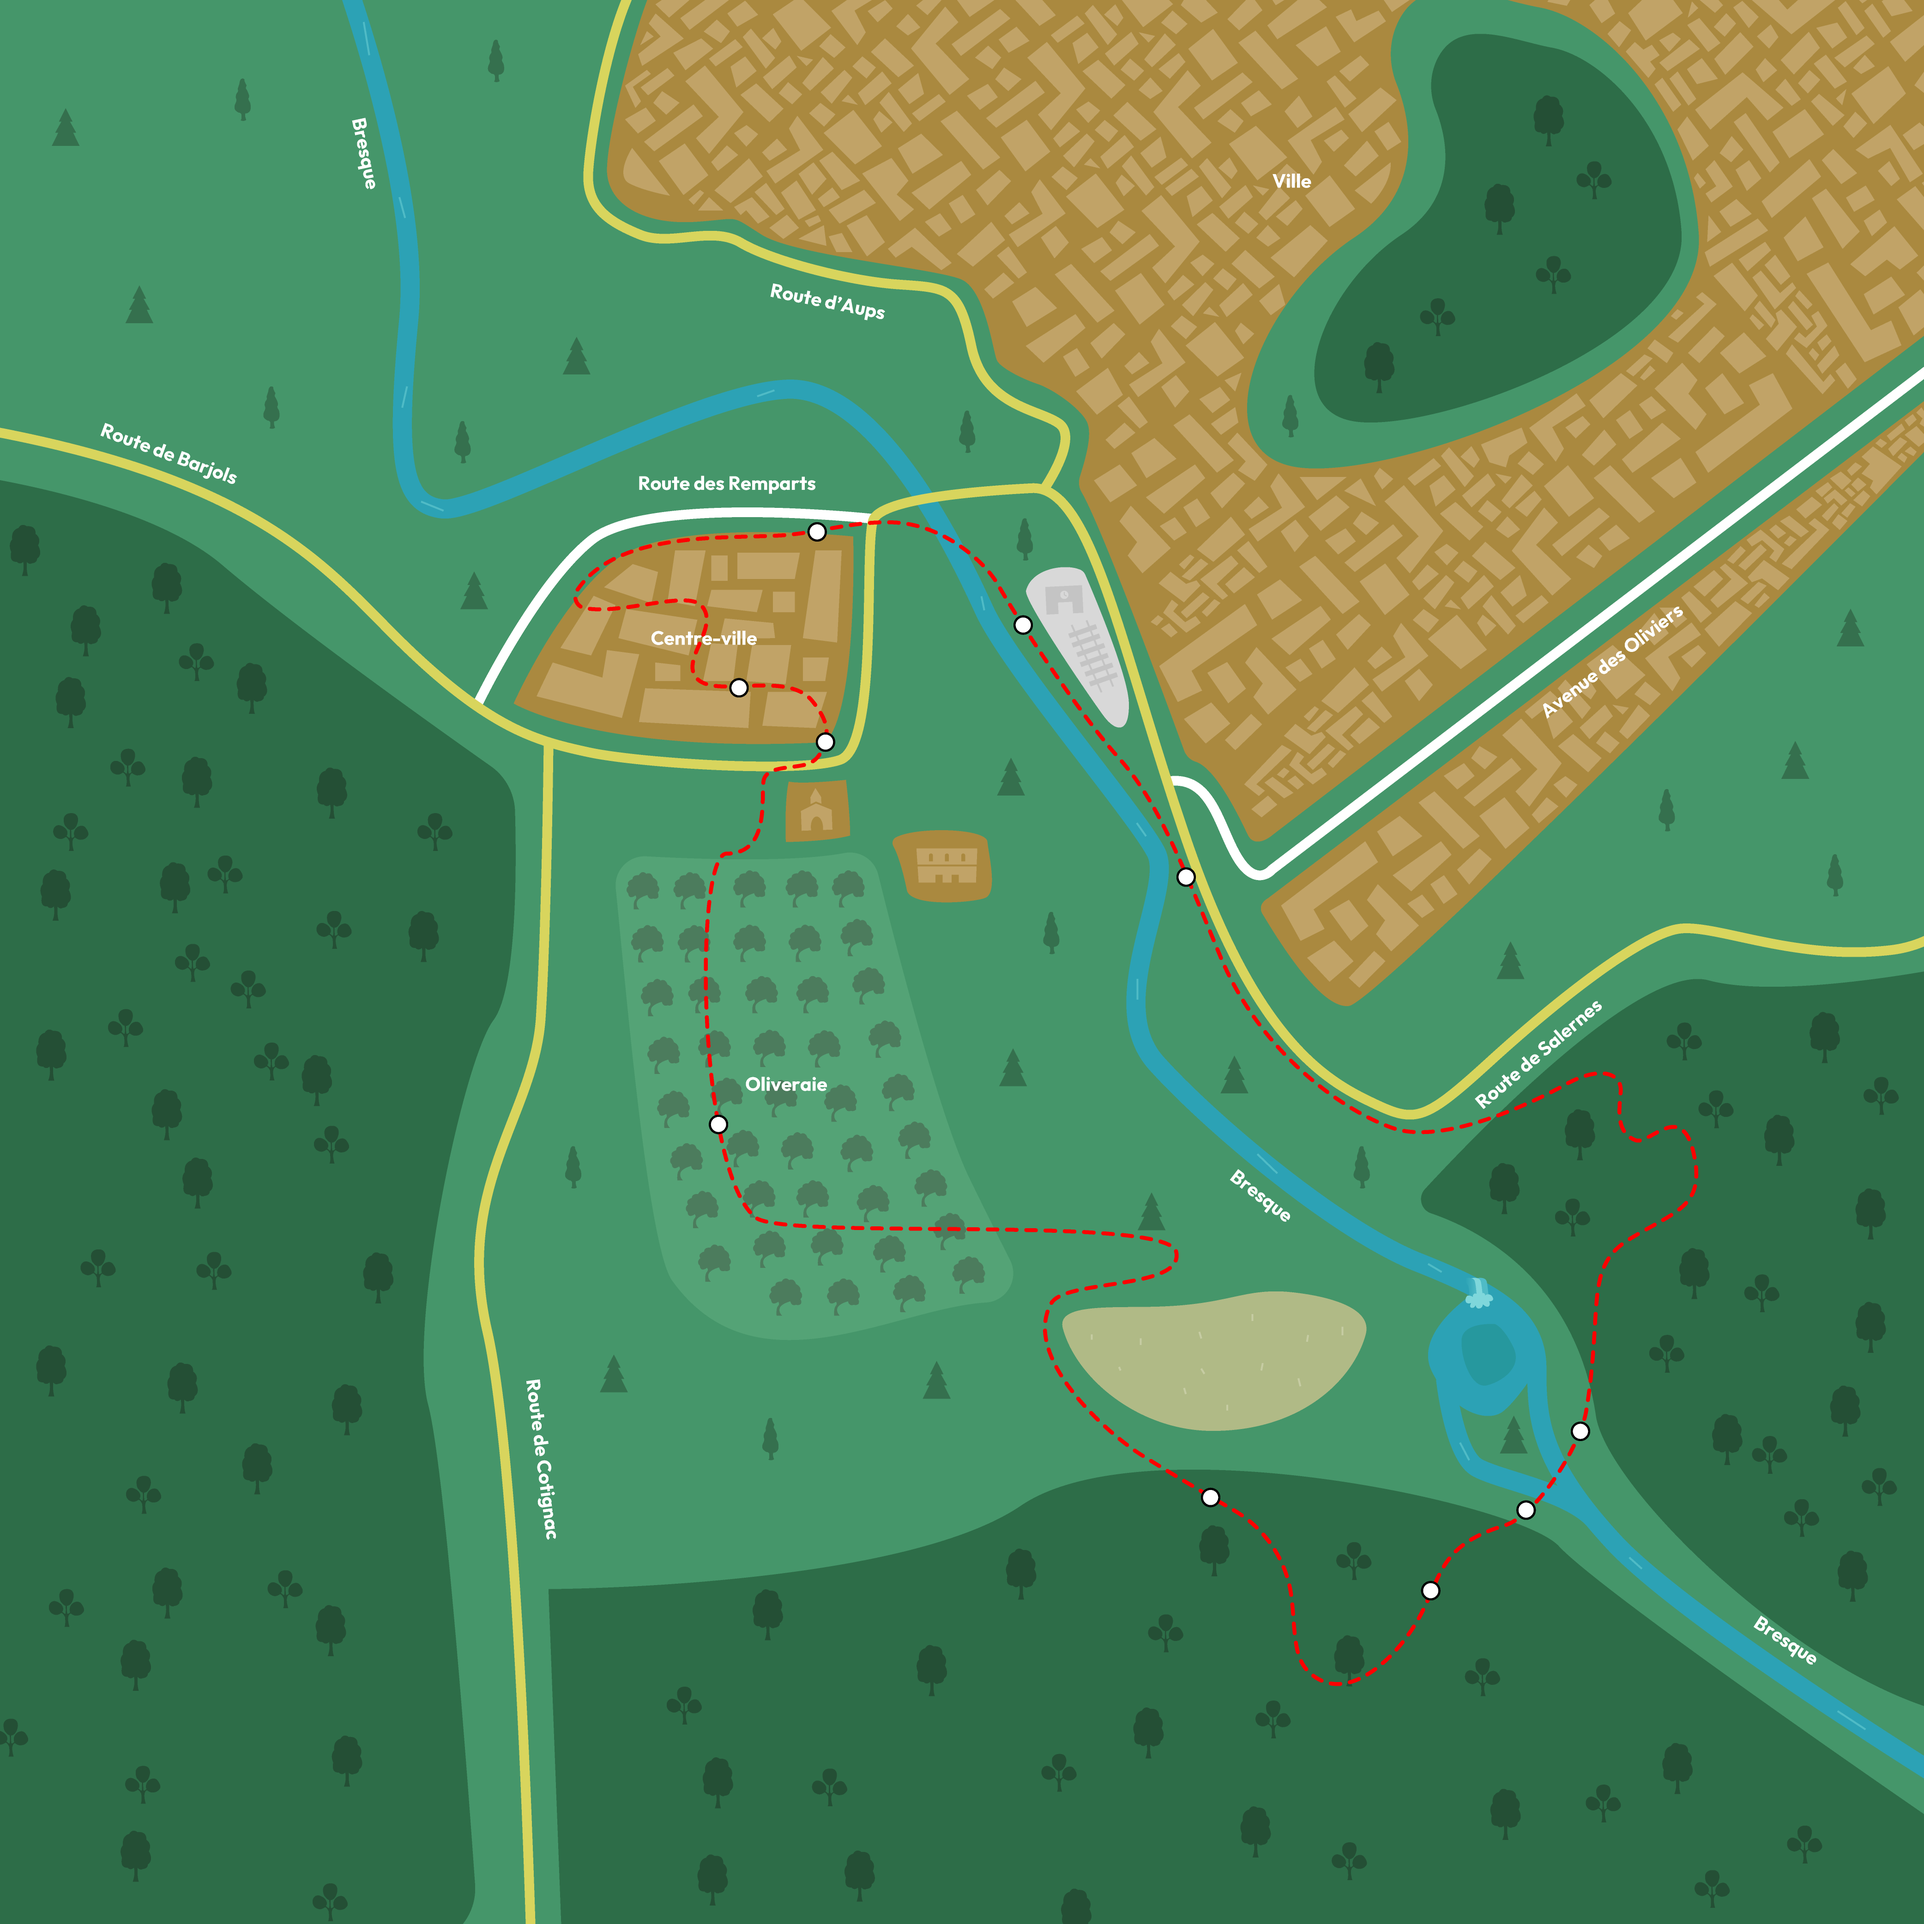
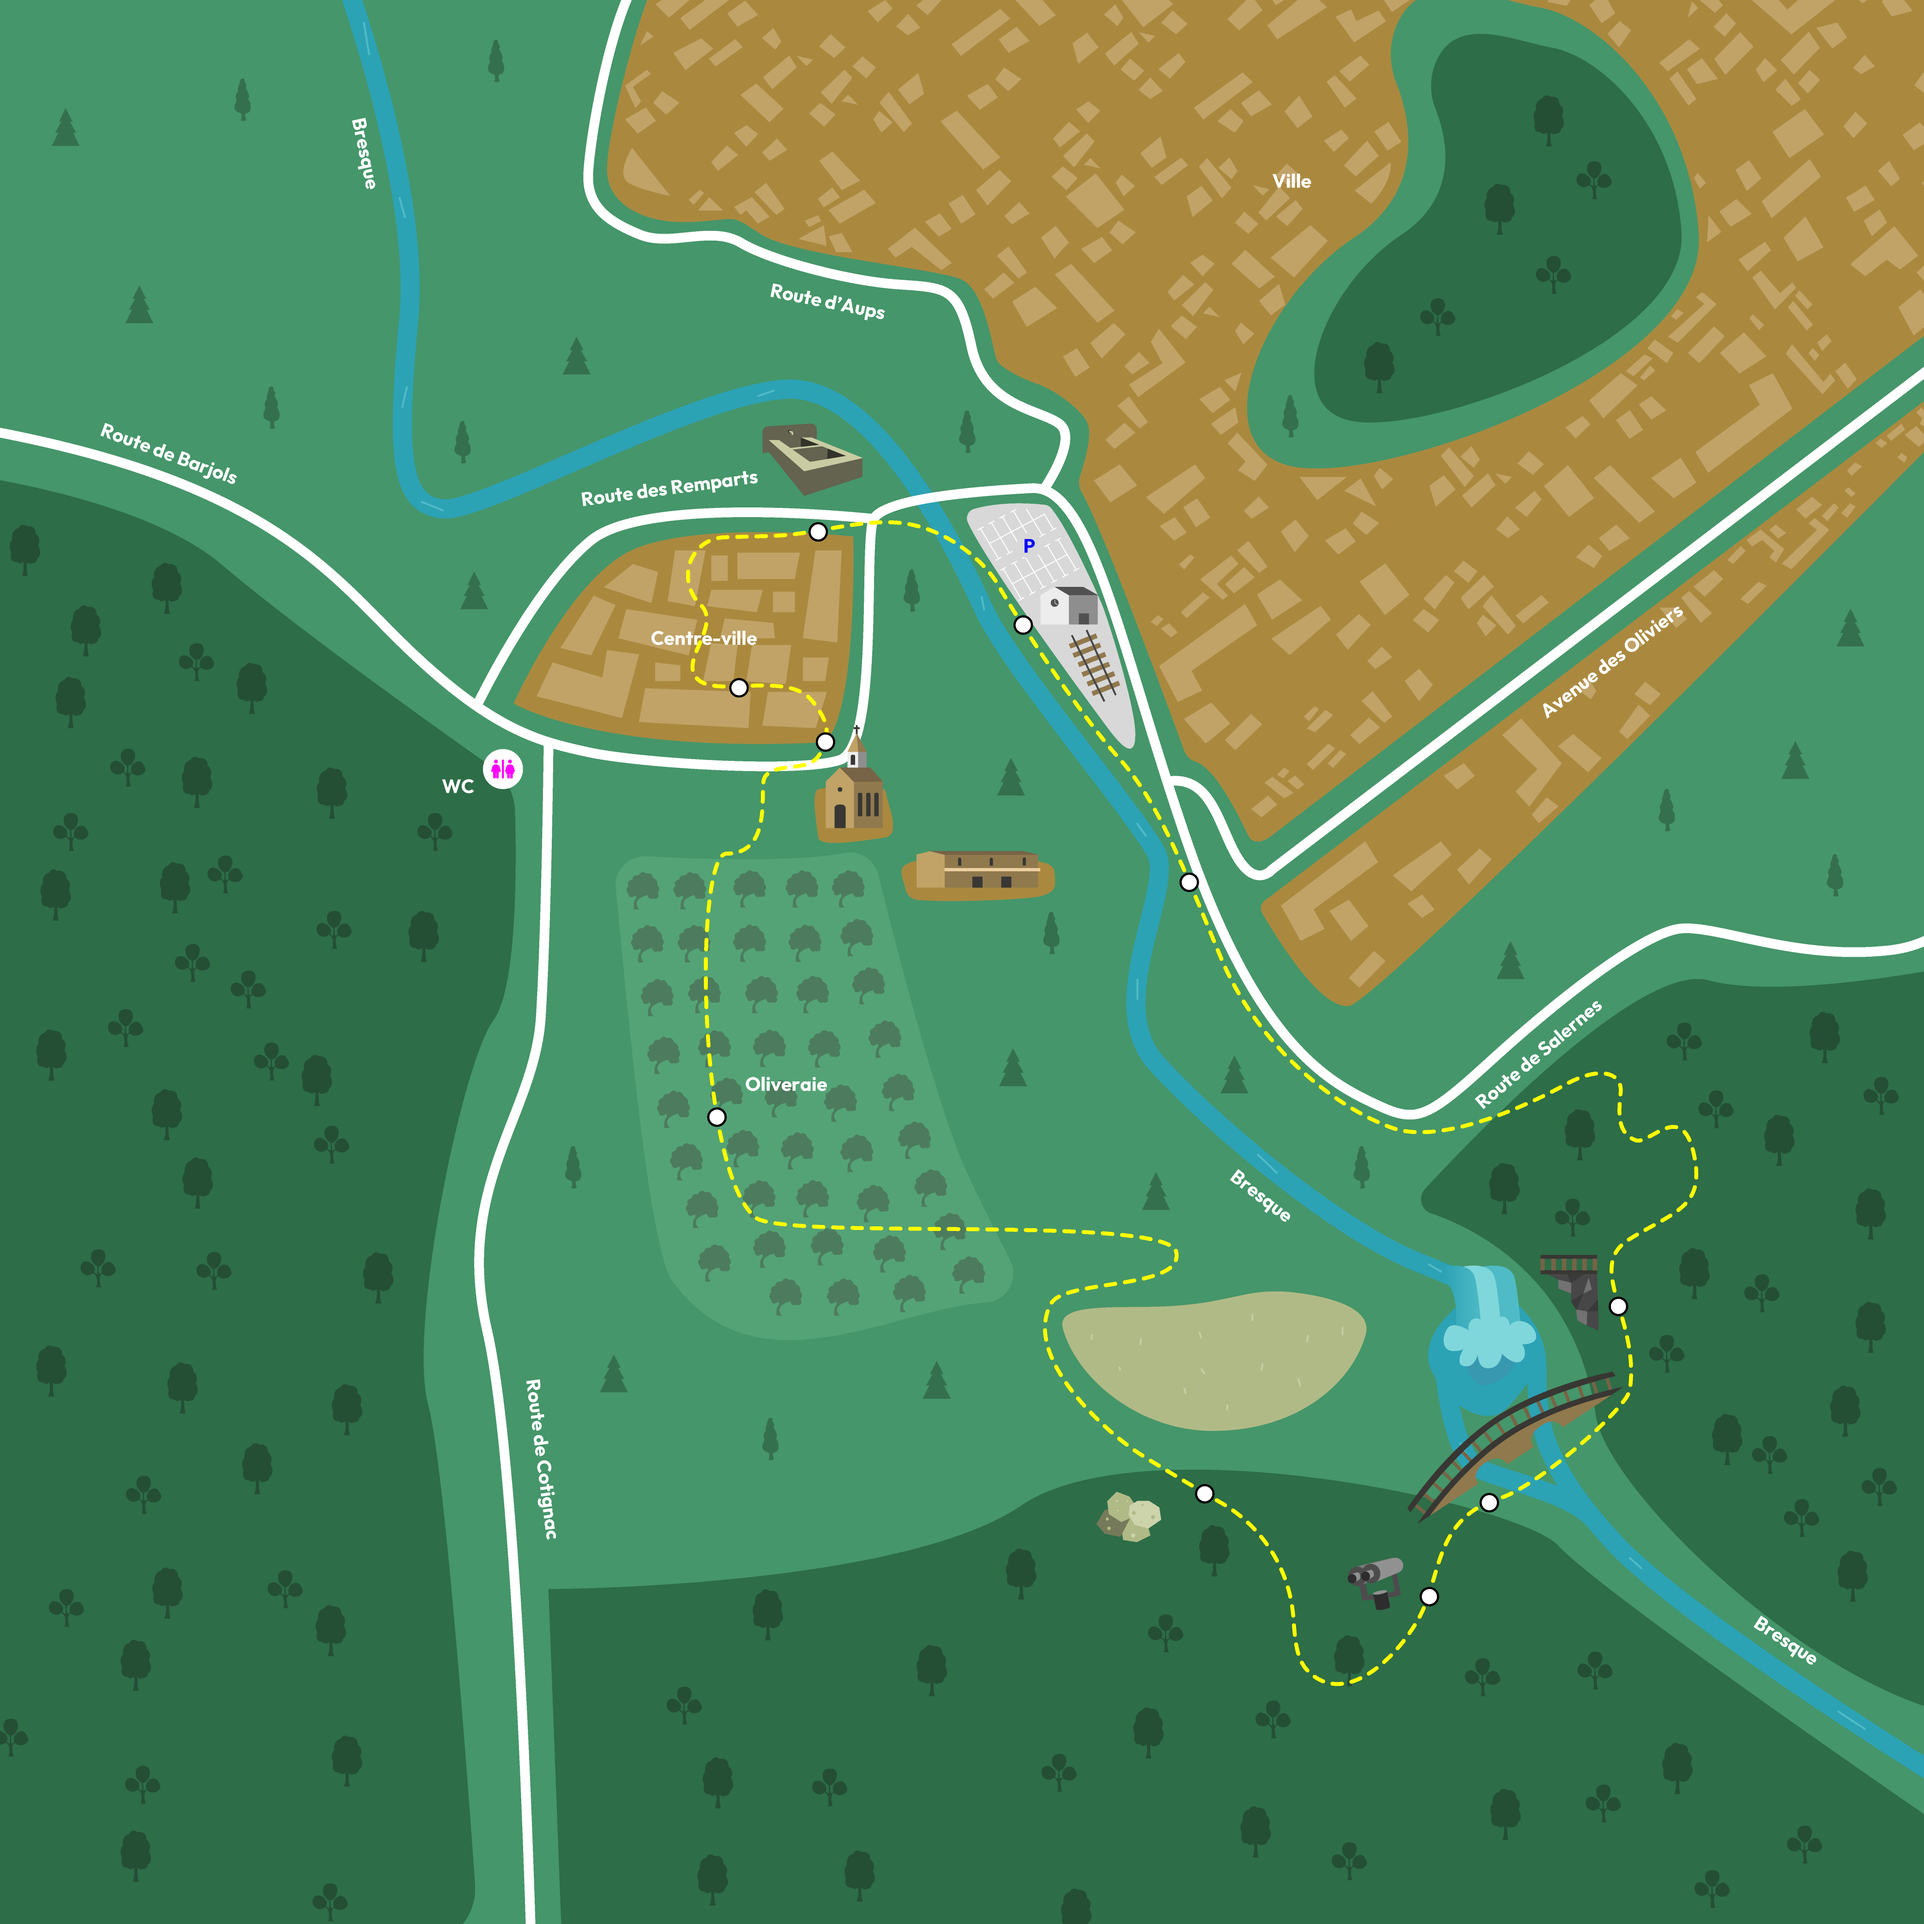
J'ai remis à jour les coordonnées des points en ajoutant la nouvelle carte.

diff --git a/map.js b/map.js
@@ -7,12 +7,12 @@
 
   const MAP_COORDS = [
     { x: 1788, y: 1608  }, // 1 – Centre-ville sud
-    { x: 1556, y: 2435  }, // 2 – Centre-ville milieu
+    { x: 1554, y: 2418  }, // 2 – Centre-ville milieu
     { x: 2622, y: 3242  }, // 3 – Centre-ville nord
-    { x: 3099, y: 3445  }, // 4 – Oliveraie
-    { x: 3305, y: 3270  }, // 5 – Forêt (début)
-    { x: 3423, y: 3100  }, // 6 – Forêt (milieu)
-    { x: 2569, y: 1900  }, // 7 – Près de la cascade
+    { x: 3095, y: 3458  }, // 4 – Oliveraie
+    { x: 3225, y: 3255  }, // 5 – Forêt (début)
+    { x: 3505, y: 2825  }, // 6 – Forêt (milieu)
+    { x: 2575, y: 1910  }, // 7 – Près de la cascade
     { x: 2216, y: 1353  }, // 8 – Cascade
     { x: 1770, y: 1152  }, // 9 – Bresque (sud)
     { x: 1601, y: 1489  }, // 10 – Bresque (nord / ville)
